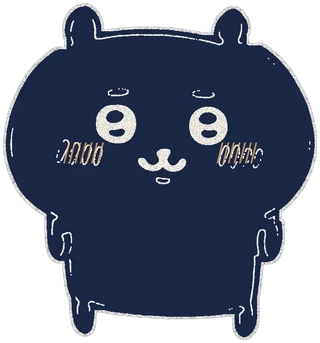
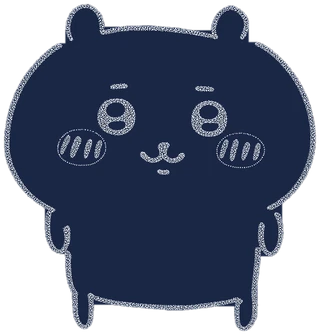
Redraw Chiikawa as gel-pen line with gpt-image-2
Drawn by the image model from a reference picture as stippled white
gel-pen line on black, in the pine's hand, with its own sweet shiny eyes
(the last version made its eyes by inverting the reference's in code,
which left them blank and staring). Its inside is filled with the night's
navy so the rock behind doesn't show through. The edit prompt is kept in
tools/gen-art.py.

diff --git a/styles/site.css b/styles/site.css
@@ -267,7 +267,7 @@ a:hover .pic-title, a:focus-visible .pic-title { background-size: 100% 0.5em; }
 /* Chiikawa on the ledge, drawn in the same white gel pen as the pine (its feet on the rock: placed by its foot, 5.8% of
    the drawing's height tall); still, there with the drawing from the start, found on a second look. Not on a phone:
    the tall drawing has no ledge with room for it */
-.critter { --ch: calc(var(--dh) * 0.058); width: calc(var(--ch) * 0.933); height: var(--ch); transform: translate(-50%, -94%); opacity: 0.92; }
+.critter { --ch: calc(var(--dh) * 0.058); width: calc(var(--ch) * 0.955); height: var(--ch); transform: translate(-50%, -94%); }
 @media (max-width: 700px) { .critter { display: none; } }
 .critter img { display: block; width: 100%; height: 100%; }
 

diff --git a/components/site/Sky.tsx b/components/site/Sky.tsx
@@ -39,7 +39,7 @@ export default function Sky() {
       <span className="shooting" />
       {/* Chiikawa, on the ledge by the pine */}
       <span className="spot critter" style={at({ w: [0.876, 0.583], t: [0.876, 0.583] })}>
-        <img src="/art/hero/critter.webp" width={320} height={343} alt="" decoding="async" />
+        <img src="/art/hero/critter.webp" width={320} height={335} alt="" decoding="async" />
       </span>
       {petals.map((p, i) => (
         <span key={`p${i}`} className="spot drift" style={{ ...at(p.at), '--dx': `${p.dx}px`, '--s': `${p.s}px`, '--turn': `${p.turn}deg`, '--d': `${p.d}s`, '--p': `${p.p}s` } as React.CSSProperties}>

diff --git a/tools/process-art.py b/tools/process-art.py
@@ -72,53 +72,20 @@ def night():
     if os.path.exists(p): save(fit(Image.open(p).convert('RGB'), 900), 'cards/record.webp', 86)
 
 
-def critter(name='chiikawa2-1', fill=(27, 39, 70), floor=0.2, blush=((0.255, 0.745), 0.445)):
-    """Chiikawa on the ledge, redrawn in the hero's own hand: white gel-pen line on the navy night, like the pine. The
-    reference drawing (a white body, dark features) gives the shapes: its body becomes navy paper (filled solid, so no
-    rock shows through), its edge a stippled white contour, its dark eyes and mouth white marks, its cheeks gold
-    hatching. (floor: the raw drawing's paper is dark grey, so more of the dark is cut away; blush: where its cheeks are,
-    as fractions of it)"""
+def critter(name='chiikawa3-2', fill=(27, 39, 70), close=45):
+    """Chiikawa on the ledge: drawn (tools/gen-art.py, from a reference, through the image edit endpoint) as stippled
+    white gel-pen line on black, like the pine. The line comes off the black as everything else does; underneath, the
+    inside of its contour is filled with the night's navy so the rock behind doesn't show through. (close: the contour
+    has small gaps, as a pen line does, so it is grown this many pixels to close them before its inside is found)"""
     from PIL import ImageDraw
-    src = raw(name)
-    W, H = src.size
-    lum = np.asarray(src.convert('L'), np.float32) / 255
-    a = np.asarray(unblack(src, floor=floor, gain=1.7).split()[3])
-    solid = Image.fromarray(((a > 40) * 255).astype(np.uint8)).filter(ImageFilter.MaxFilter(15))
+    ink = unblack(raw(name), floor=0.07, gain=1.7)
+    a = ink.split()[3]
+    solid = a.point(lambda v: 255 if v > 40 else 0).filter(ImageFilter.MaxFilter(close))
     ImageDraw.floodfill(solid, (0, 0), 128)
-    body = solid.point(lambda v: 255 if v != 128 else 0).filter(ImageFilter.MinFilter(15))
-    box = body.getbbox()
-    bw = box[2] - box[0]
-    band = max(3, int(bw * 0.014)) | 1
-    inner = body.filter(ImageFilter.MinFilter(band))
-    B = np.asarray(body) > 127
-    I = np.asarray(inner) > 127
-    contour = B & ~I
-    # the features: what's dark inside the body (eyes, brows, mouth, the lines of its arms)
-    deep = np.asarray(inner.filter(ImageFilter.MinFilter(band * 2 + 1))) > 127
-    feat = deep & (lum < 0.45)
-    feat = np.asarray(Image.fromarray((feat * 255).astype(np.uint8)).filter(ImageFilter.MaxFilter(3))) > 127
-    rng_ = np.random.default_rng(5)
-    dots = rng_.random((H, W))
-    # stippled like the drawing's own gel pen: most of the line, with gaps and fainter dots
-    line = np.where(contour, np.where(dots < 0.78, 1.0, 0.35), 0) + np.where(feat, np.where(dots < 0.9, 1.0, 0.5), 0)
-    line = np.clip(line, 0, 1)
-    rgb = np.zeros((H, W, 3), np.float32) + np.array(fill, np.float32)
-    white = np.array((242, 238, 228), np.float32)
-    rgb = rgb * (1 - line[..., None]) + white * line[..., None]
-    # gold hatching on the cheeks
-    hatch = Image.new('L', (W, H), 0)
-    d = ImageDraw.Draw(hatch)
-    bh = box[3] - box[1]
-    for cx in blush[0]:
-        x, y = box[0] + cx * bw, box[1] + blush[1] * bh
-        for k in range(-3, 4):
-            hx = x + k * bw * 0.018
-            d.line((hx + bw * 0.008, y - bh * 0.03, hx - bw * 0.008, y + bh * 0.03), fill=255, width=max(2, int(bw * 0.006)))
-    G = (np.asarray(hatch) > 0) & I
-    gold = np.array((240, 180, 106), np.float32)
-    rgb[G] = rgb[G] * 0.25 + gold * 0.75
-    alpha = np.asarray(body.filter(ImageFilter.GaussianBlur(1.0)), np.float32)
-    out = Image.fromarray(np.dstack([rgb, alpha]).clip(0, 255).astype(np.uint8), 'RGBA')
+    body = solid.point(lambda v: 255 if v != 128 else 0).filter(ImageFilter.MinFilter(close)).filter(ImageFilter.GaussianBlur(1.2))
+    out = Image.new('RGBA', ink.size, fill + (0,)); out.putalpha(body)
+    out.alpha_composite(ink)
+    box = out.getbbox()
     pad = 8
     out = out.crop((box[0] - pad, box[1] - pad, box[2] + pad, box[3] + pad))
     save(fit(out, 320), 'hero/critter.webp', 90)

diff --git a/tools/gen-art.py b/tools/gen-art.py
@@ -155,3 +155,17 @@ if __name__ == '__main__':
     names = sys.argv[1:] or list(ART)
     with cf.ThreadPoolExecutor(8) as ex:
         for msg in ex.map(gen, names): print(msg, flush=True)
+
+
+# Chiikawa (art/raw/chiikawa3-*.png) is drawn from a reference picture through the edit endpoint, which this script
+# doesn't call. To redo it:
+#   curl https://api.openai.com/v1/images/edits -H "Authorization: Bearer $OPENAI_API_KEY" -F model=gpt-image-2 \
+#     -F "image[]=@chiikawa-reference.png" -F size=1024x1024 -F quality=high -F n=3 -F "prompt=$CHIIKAWA_EDIT"
+CHIIKAWA_EDIT = ("Redraw this character (Chiikawa) with the exact same shape, pose, proportions and sweet expression, as a "
+    "delicate line drawing in white gel pen on pure flat black paper, in the style of a fine stippled gel-pen illustration "
+    "of a pine tree on dark paper: the contour drawn as a fine white line made of tiny dots and short strokes; the body NOT "
+    "filled in, left as the black paper; the eyes are the character's cute shiny eyes drawn in line: each a small "
+    "white-outlined round eye with a small white highlight sparkle inside, looking sweet and friendly, never empty or "
+    "staring; the little brows and tiny cat-like mouth in thin white line; the blush marks as short hatched strokes in "
+    "pale gold gel pen. Cute and gentle, clearly Chiikawa. Small, centred, alone, nothing else; the background is "
+    "completely black with no texture, border, frame or text.")
